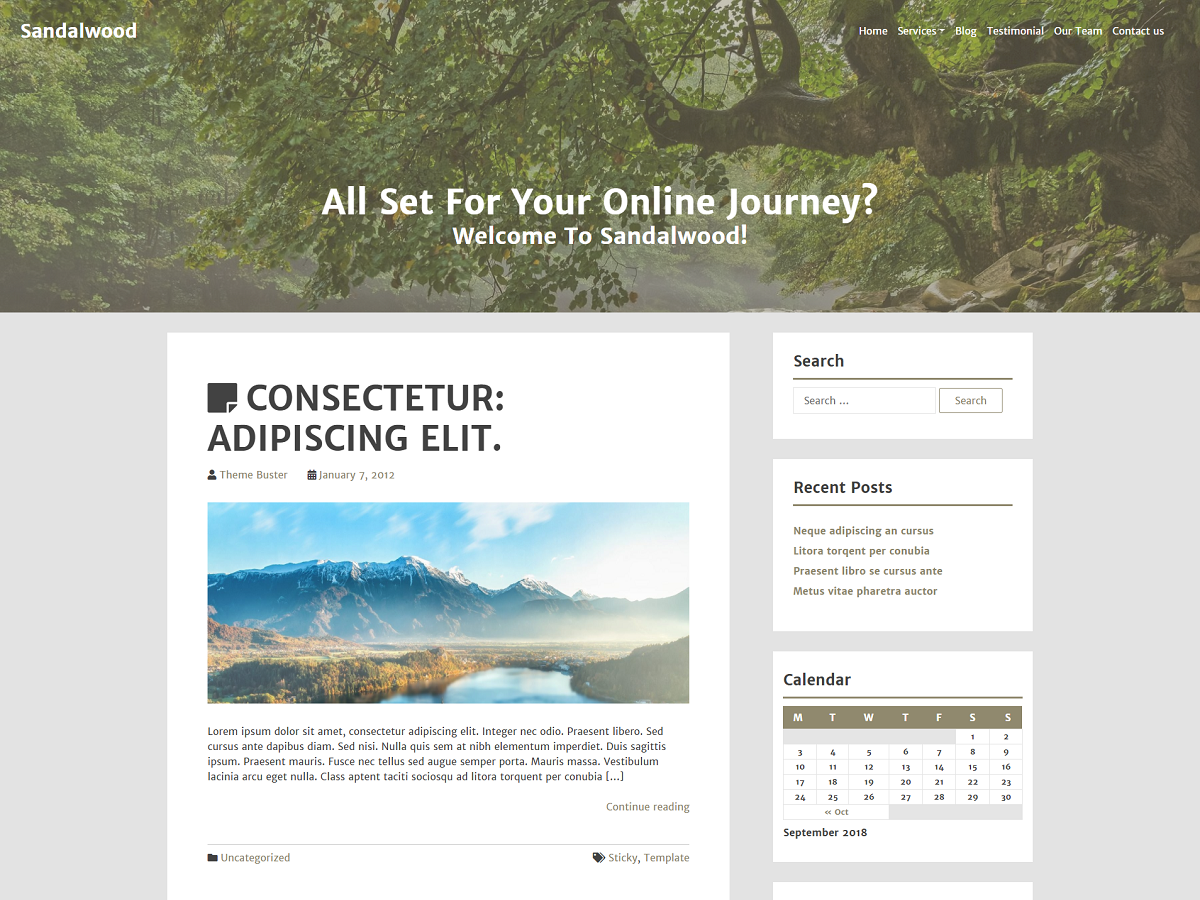
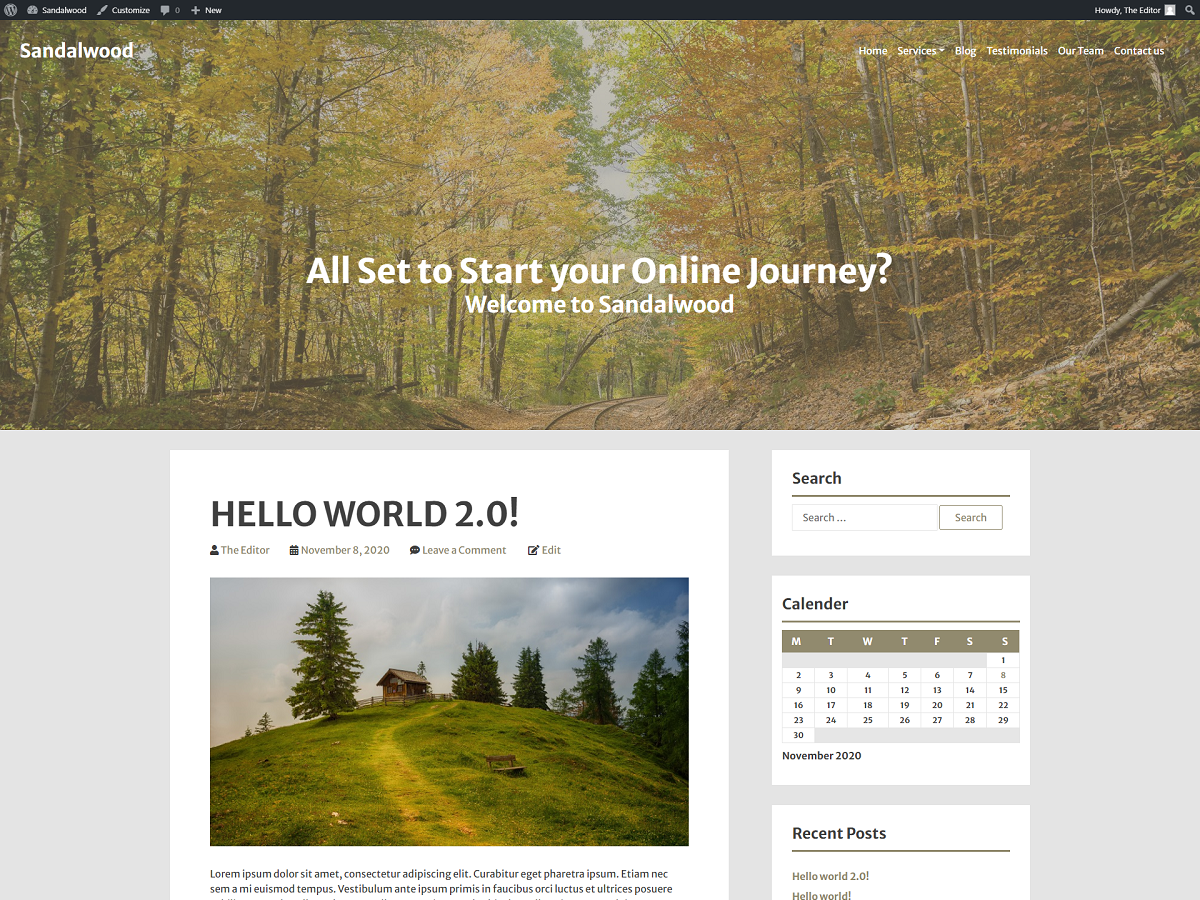
Fixed issues raised by the Theme Upload check.

diff --git a/style-rtl.css b/style-rtl.css
@@ -6,6 +6,8 @@ Author: Ihtisham Zahoor
 Author URI:	http://www.github.com/ihtishamzahoor
 Description: Sandalwood is a modern theme which provides an easy way for individuals and organizations to create a catching presence online. Sandalwood comes with beautifully crafted sections to engage the audience and includes features like flexible-header, custom-background, custom-logo, custom-menu, featured-images and more.
 Version: 1.0.7
+Tested up to: 5.5.3
+Requires PHP: 5.6 or higher
 License: GNU General Public License v2.0 or later
 License URI: https://www.gnu.org/licenses/gpl-2.0.html
 Text Domain: sandalwood
@@ -15,12 +17,12 @@ Sandalwood, (C) Ihtisham Zahoor, [GPLv2 or later](https://www.gnu.org/licenses/g
 
 Sandalwood is based on following third-party resources:
 
-* Screenshot Image, Copyright Pixabay  
+* Screenshot Image, Copyright Stocksnap  
+  License: CC0 1.0 Universal (CC0 1.0)
+  Source: https://stocksnap.io/photo/autumn-forest-L3G8OQESTP
+* Screenshot Image, Copyright Stocksnap  
   License: CC0 1.0 Universal (CC0 1.0) 
-  Source: https://pixabay.com/en/stream-rapids-rumania-transylvania-967624/
-* Screenshot Image, Copyright Pixabay  
-  License: CC0 1.0 Universal (CC0 1.0) 
-  Source: https://pixabay.com/en/bled-island-slovenia-mountains-1899264/
+  Source: https://stocksnap.io/photo/logcabin-hill-6HPVTKIYMP
 
 * Underscores https://underscores.me/, (C) 2012-2017 Automattic, Inc., [GPLv2 or later](https://www.gnu.org/licenses/gpl-2.0.html)
 * normalize.css https://necolas.github.io/normalize.css/, (C) 2012-2016 Nicolas Gallagher and Jonathan Neal, [MIT](https://opensource.org/licenses/MIT)

diff --git a/style.css b/style.css
@@ -6,6 +6,8 @@ Author: Ihtisham Zahoor
 Author URI:	http://www.github.com/ihtishamzahoor
 Description: Sandalwood is a modern theme which provides an easy way for individuals and organizations to create a catching presence online. Sandalwood comes with beautifully crafted sections to engage the audience and includes features like flexible-header, custom-background, custom-logo, custom-menu, featured-images and more.
 Version: 1.0.7
+Tested up to: 5.5.3
+Requires PHP: 5.6 or higher
 License: GNU General Public License v2.0 or later
 License URI: https://www.gnu.org/licenses/gpl-2.0.html
 Text Domain: sandalwood
@@ -15,12 +17,12 @@ Sandalwood, (C) Ihtisham Zahoor, [GPLv2 or later](https://www.gnu.org/licenses/g
 
 Sandalwood is based on following third-party resources:
 
-* Screenshot Image, Copyright Pixabay  
+* Screenshot Image, Copyright Stocksnap  
+  License: CC0 1.0 Universal (CC0 1.0)
+  Source: https://stocksnap.io/photo/autumn-forest-L3G8OQESTP
+* Screenshot Image, Copyright Stocksnap  
   License: CC0 1.0 Universal (CC0 1.0) 
-  Source: https://pixabay.com/en/stream-rapids-rumania-transylvania-967624/
-* Screenshot Image, Copyright Pixabay  
-  License: CC0 1.0 Universal (CC0 1.0) 
-  Source: https://pixabay.com/en/bled-island-slovenia-mountains-1899264/
+  Source: https://stocksnap.io/photo/logcabin-hill-6HPVTKIYMP
 
 * Underscores https://underscores.me/, (C) 2012-2017 Automattic, Inc., [GPLv2 or later](https://www.gnu.org/licenses/gpl-2.0.html)
 * normalize.css https://necolas.github.io/normalize.css/, (C) 2012-2016 Nicolas Gallagher and Jonathan Neal, [MIT](https://opensource.org/licenses/MIT)

diff --git a/header.php b/header.php
@@ -23,6 +23,8 @@
 
 <body <?php body_class(); ?>>
 
+    <?php wp_body_open(); ?>
+
     <div id="page" class="site">
         <a class="skip-link screen-reader-text" href="#content"><?php esc_html_e( 'Skip to content', 'sandalwood' ); ?></a>
 

diff --git a/README.md b/README.md
@@ -24,13 +24,13 @@ Sandalwood is distributed under the terms of the GNU GPL.
 Sandalwood is based on following third-party resources:
 
 ### Screenshot Images
-* Screenshot Image, Copyright Pixabay  
+* Screenshot Image, Copyright Stocksnap  
   License: CC0 1.0 Universal (CC0 1.0)
-  Source: https://pixabay.com/en/stream-rapids-rumania-transylvania-967624/
+  Source: https://stocksnap.io/photo/autumn-forest-L3G8OQESTP
 
-* Screenshot Image, Copyright Pixabay  
+* Screenshot Image, Copyright Stocksnap  
   License: CC0 1.0 Universal (CC0 1.0) 
-  Source: https://pixabay.com/en/bled-island-slovenia-mountains-1899264/
+  Source: https://stocksnap.io/photo/logcabin-hill-6HPVTKIYMP
 
 ### Resources
 * Underscores https://underscores.me/, (C) 2012-2017 Automattic, Inc., [GPLv2 or later](https://www.gnu.org/licenses/gpl-2.0.html)
